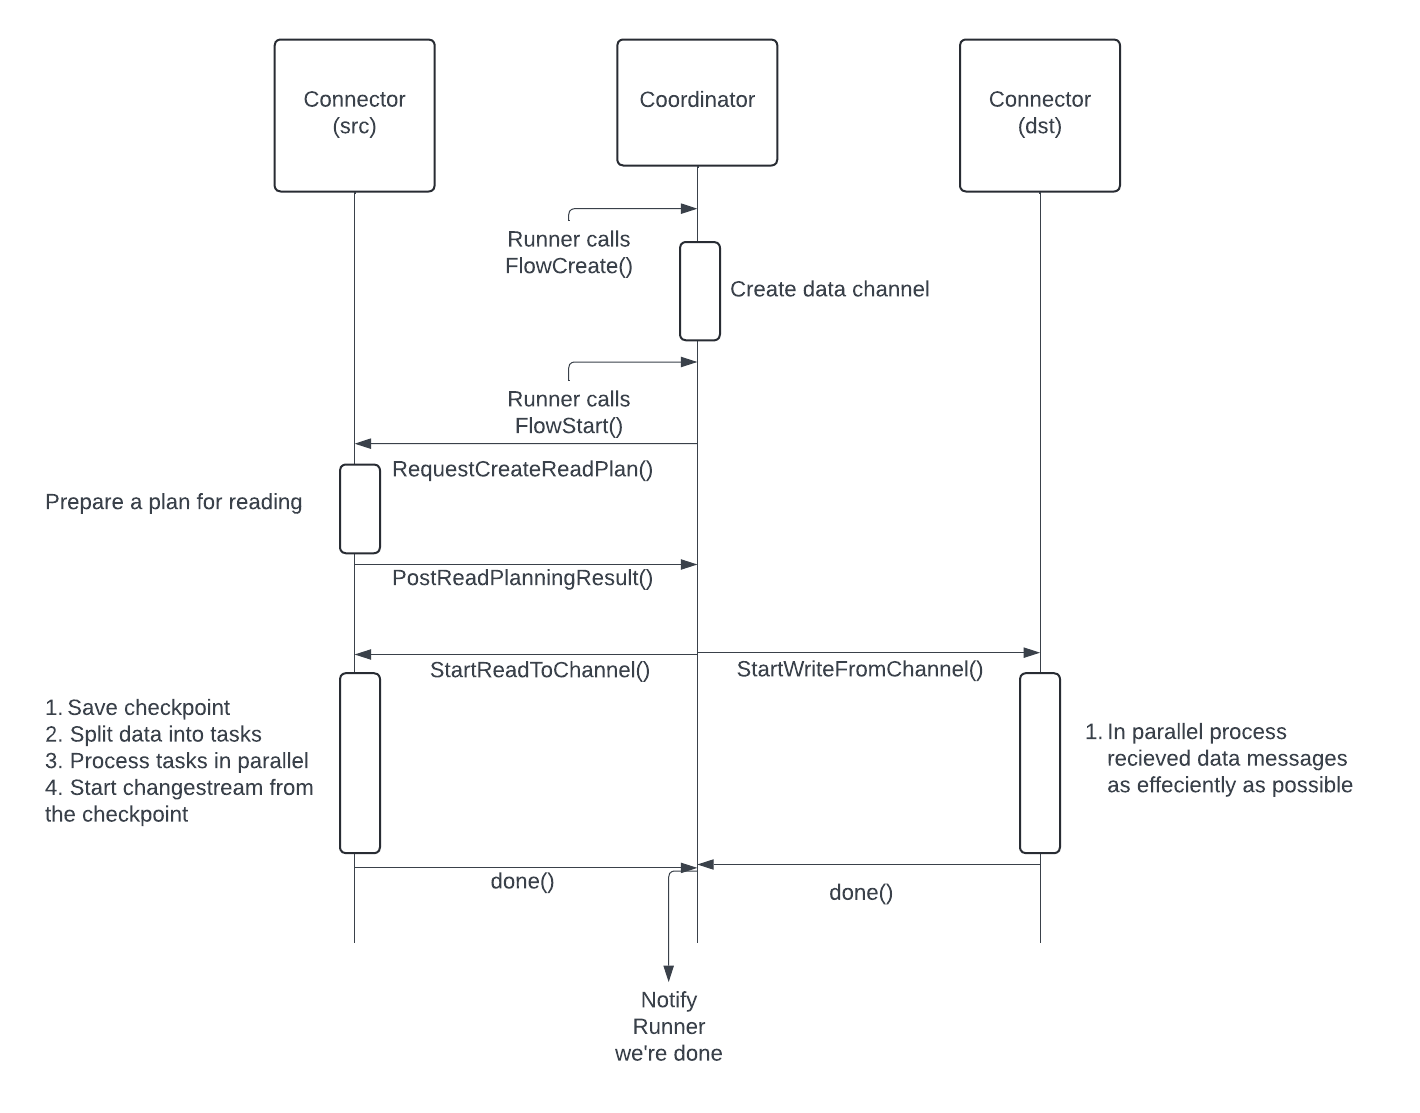
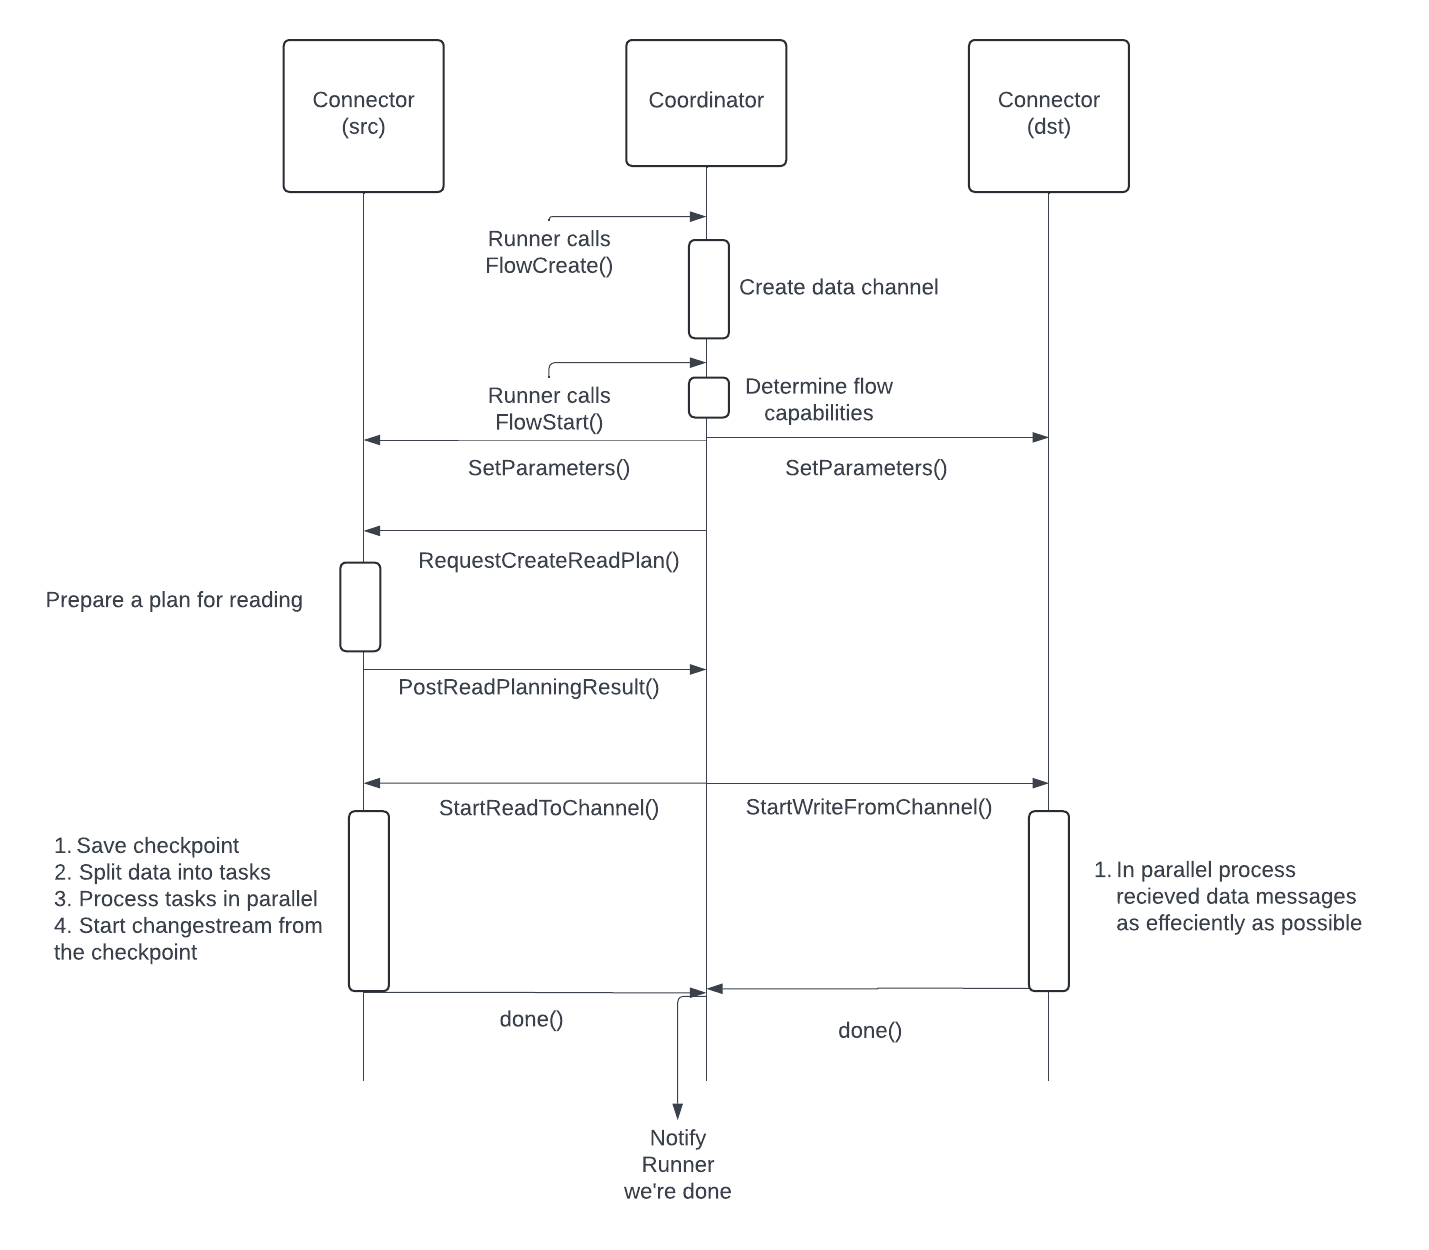
Docs updates

diff --git a/docs-dev/Resumability.md b/docs-dev/Resumability.md
@@ -1,0 +1,13 @@
+# Key Concepts
+* __Capabilities.__ Both connectors should support resumability in order for Coordinator to enable it for a flow.
+* __Flow task plan.__ That what essentially defines the flow status. This is the task plan requested from the source at the start of the flow. Tasks have a status indicating whether they have been completed.
+* __Metadata.__ Coordinator uses the metadata store to persist and retrieve the flow state and the task plan.
+* __Barriers.__ Source injects special messages into the data channel - barriers. They confirm completion of a particular task on the source and allow the source to send that notification to the destination in a synchronized way with the data itself. I.e. it's safe to assume that after a barrier has been seen, there will be no more data sent for that particular task.
+* __Notifications.__ Source and destination connectors also signal to the Coordinator directly when they are done with a task. When Coordinator gets a notification from the Destination, it marks the task as completed under the assumption that the related data was persisted on the destination. 
+
+# How it works
+1. When a flow is created, Coordinator checks if that specific flow has already been persisted. Since flow ID is deterministic based on flow options, it's preserved across runs.
+2. If the flow has been persisted, the stored plan is then reused and the tasks are sent to the source connector for execution.
+3. With each newly completed task, the source connector sends a barrier message over the data channel to indicate that there will be no more data sent for that task.
+4. When the destination connector encounters a barrier message, it ensures that the data for that task has been written. After that been confirmed (or maybe implicitly true by design), the connector signals to the coordinator.
+5. The coordinator marks the task as completed.

diff --git a/docs-dev/Architecture.md b/docs-dev/Architecture.md
@@ -34,6 +34,10 @@ We use a modular software architecture, consisting of independent and isolated c
 #### Runner Interface
 * Manages the execution of a task using setup, run, and cleanup methods
 
+#### Statestore Interface
+* Generic perstitent store
+* Allows coordinator to save and retrieve the state of things like a Flow to support resumability 
+
 ### Classes
 The architecture consists of various classes that implement the above interfaces, as shown in the class diagram. 
 
@@ -42,5 +46,6 @@ We have the following classes:
 - **SimpleCoordinator** is a *Coordinator* implementation and manages data flow between the connectors. 
 - **TransportLocal** is a *Transport* implementation using Go channels.
 - **RunnerLocal** is a *Runner* implementation which uses the above classes to run dsync locally, using *SimpleCoordinator* to start a data flow between source and destination *MongoConnectors*.
+- **StatestoreMongo** is a trivial *Statestore* implementation using MongoDB as a backend.
 
 We have the **CLIApp** wrapper class which uses an instance of *RunnerLocal* to run *Dsync* on the command line. 

diff --git a/docs-dev/Protocol.md b/docs-dev/Protocol.md
@@ -1,9 +1,7 @@
-# Execution Flow
-
-Here we show in depth the execution flow for dsync and the various errors that you may encounter. 
-See the [Architecture docs](Architecture.md) for more information on individual classes and interfaces.
-![Execution Flow](diagrams/ExecutionFlow.png)
-
 # Communication Flow
 ![Communication Diagram](diagrams/CommunicationDiagram.png)
 
+# Execution Flow
+Here we show in depth the execution flow for dsync and the various errors that you may encounter. It may be outdated, but gives a good overall idea of what's going on.
+See the [Architecture docs](Architecture.md) for more information on individual classes and interfaces.
+![Execution Flow](diagrams/ExecutionFlow.png)
